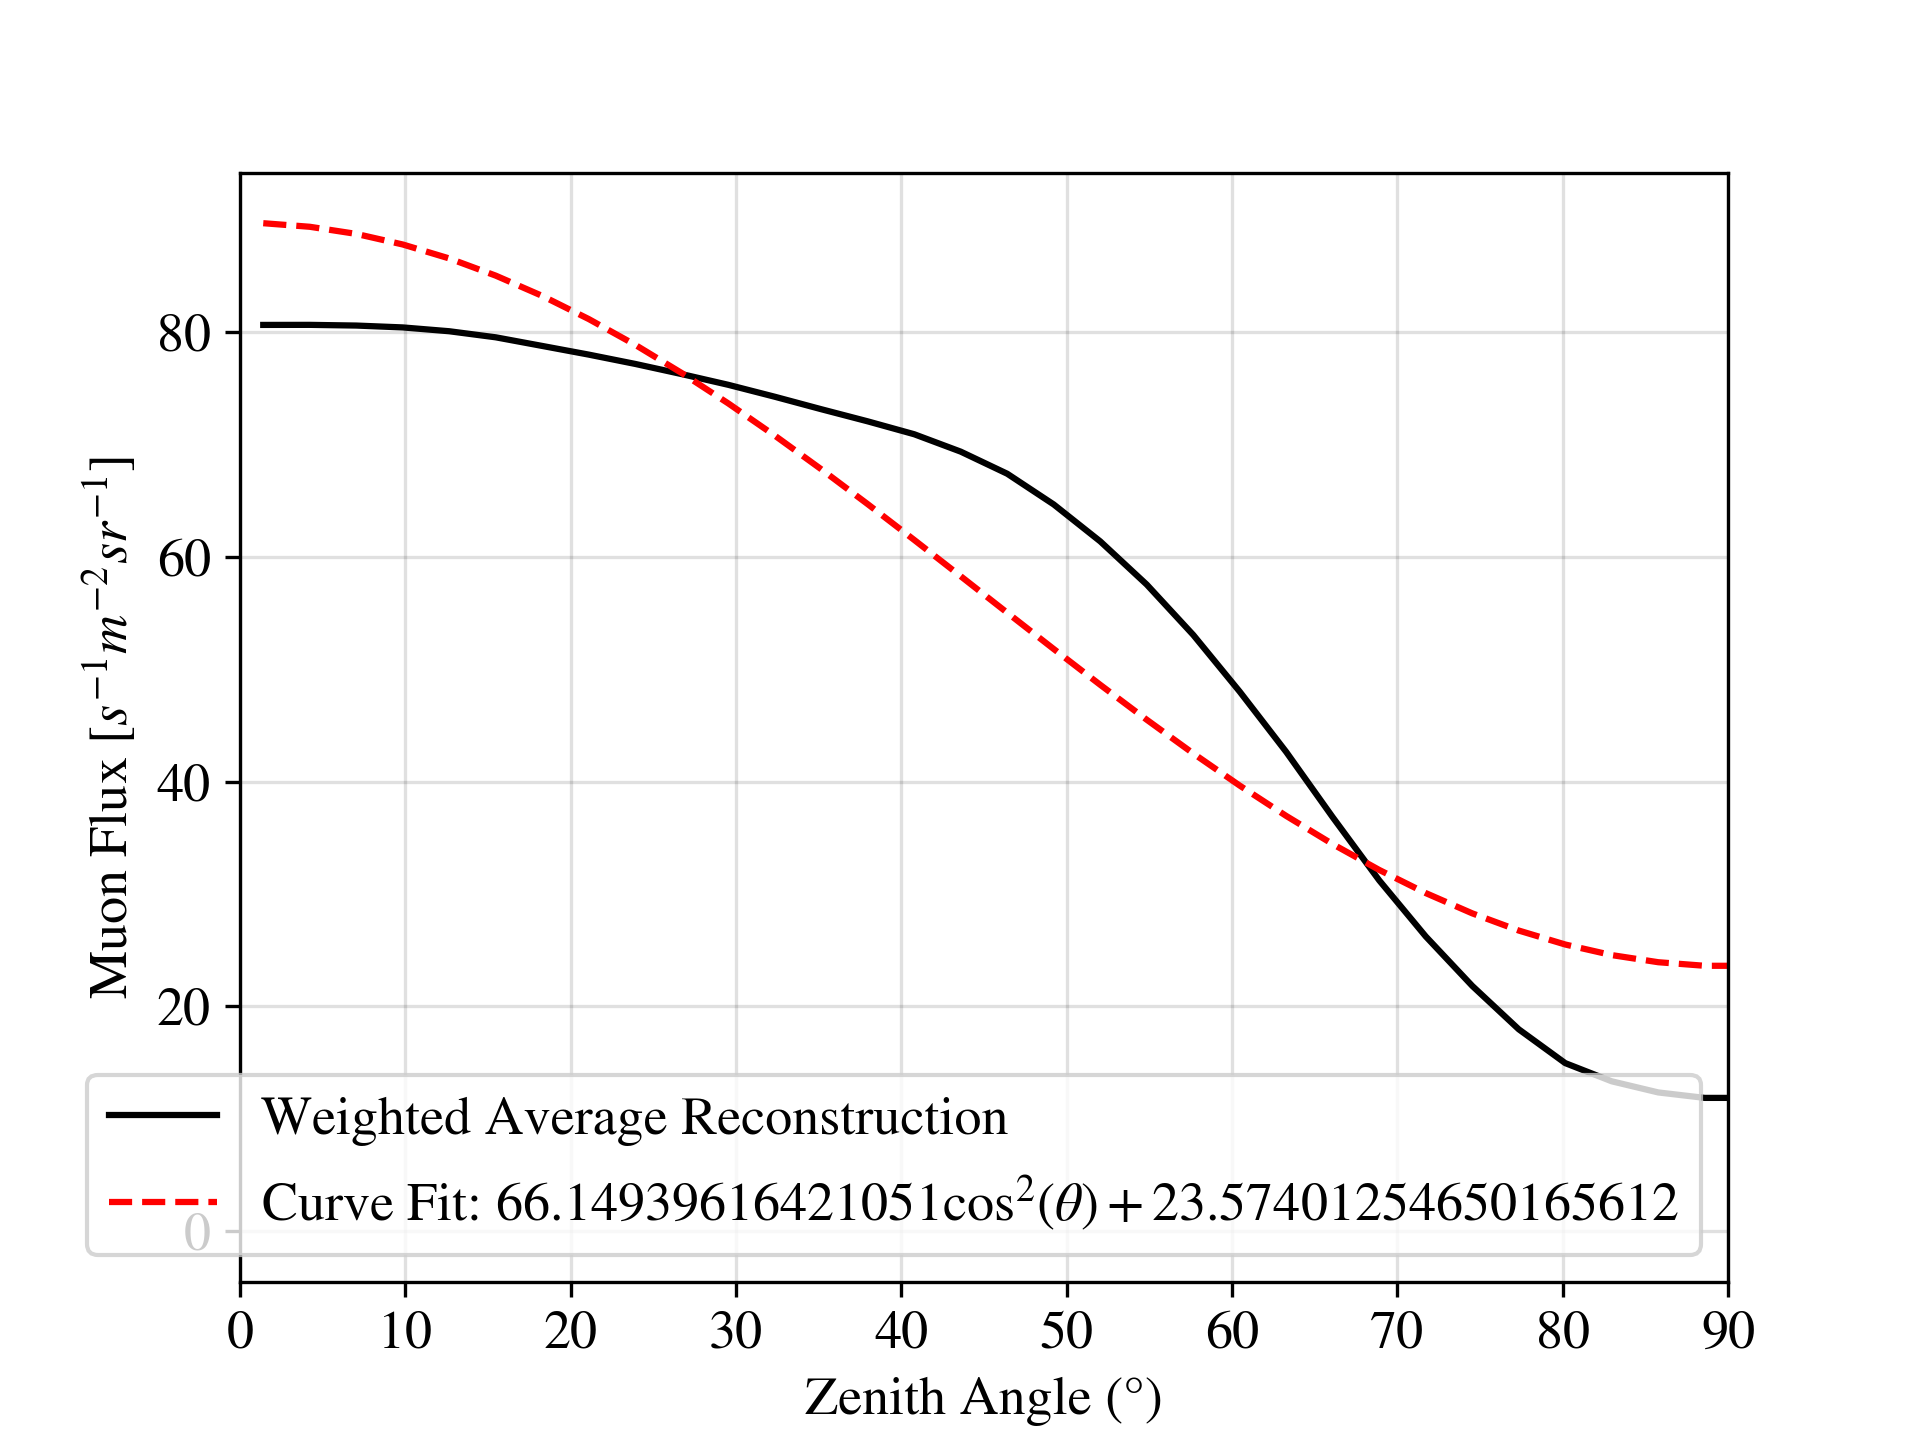
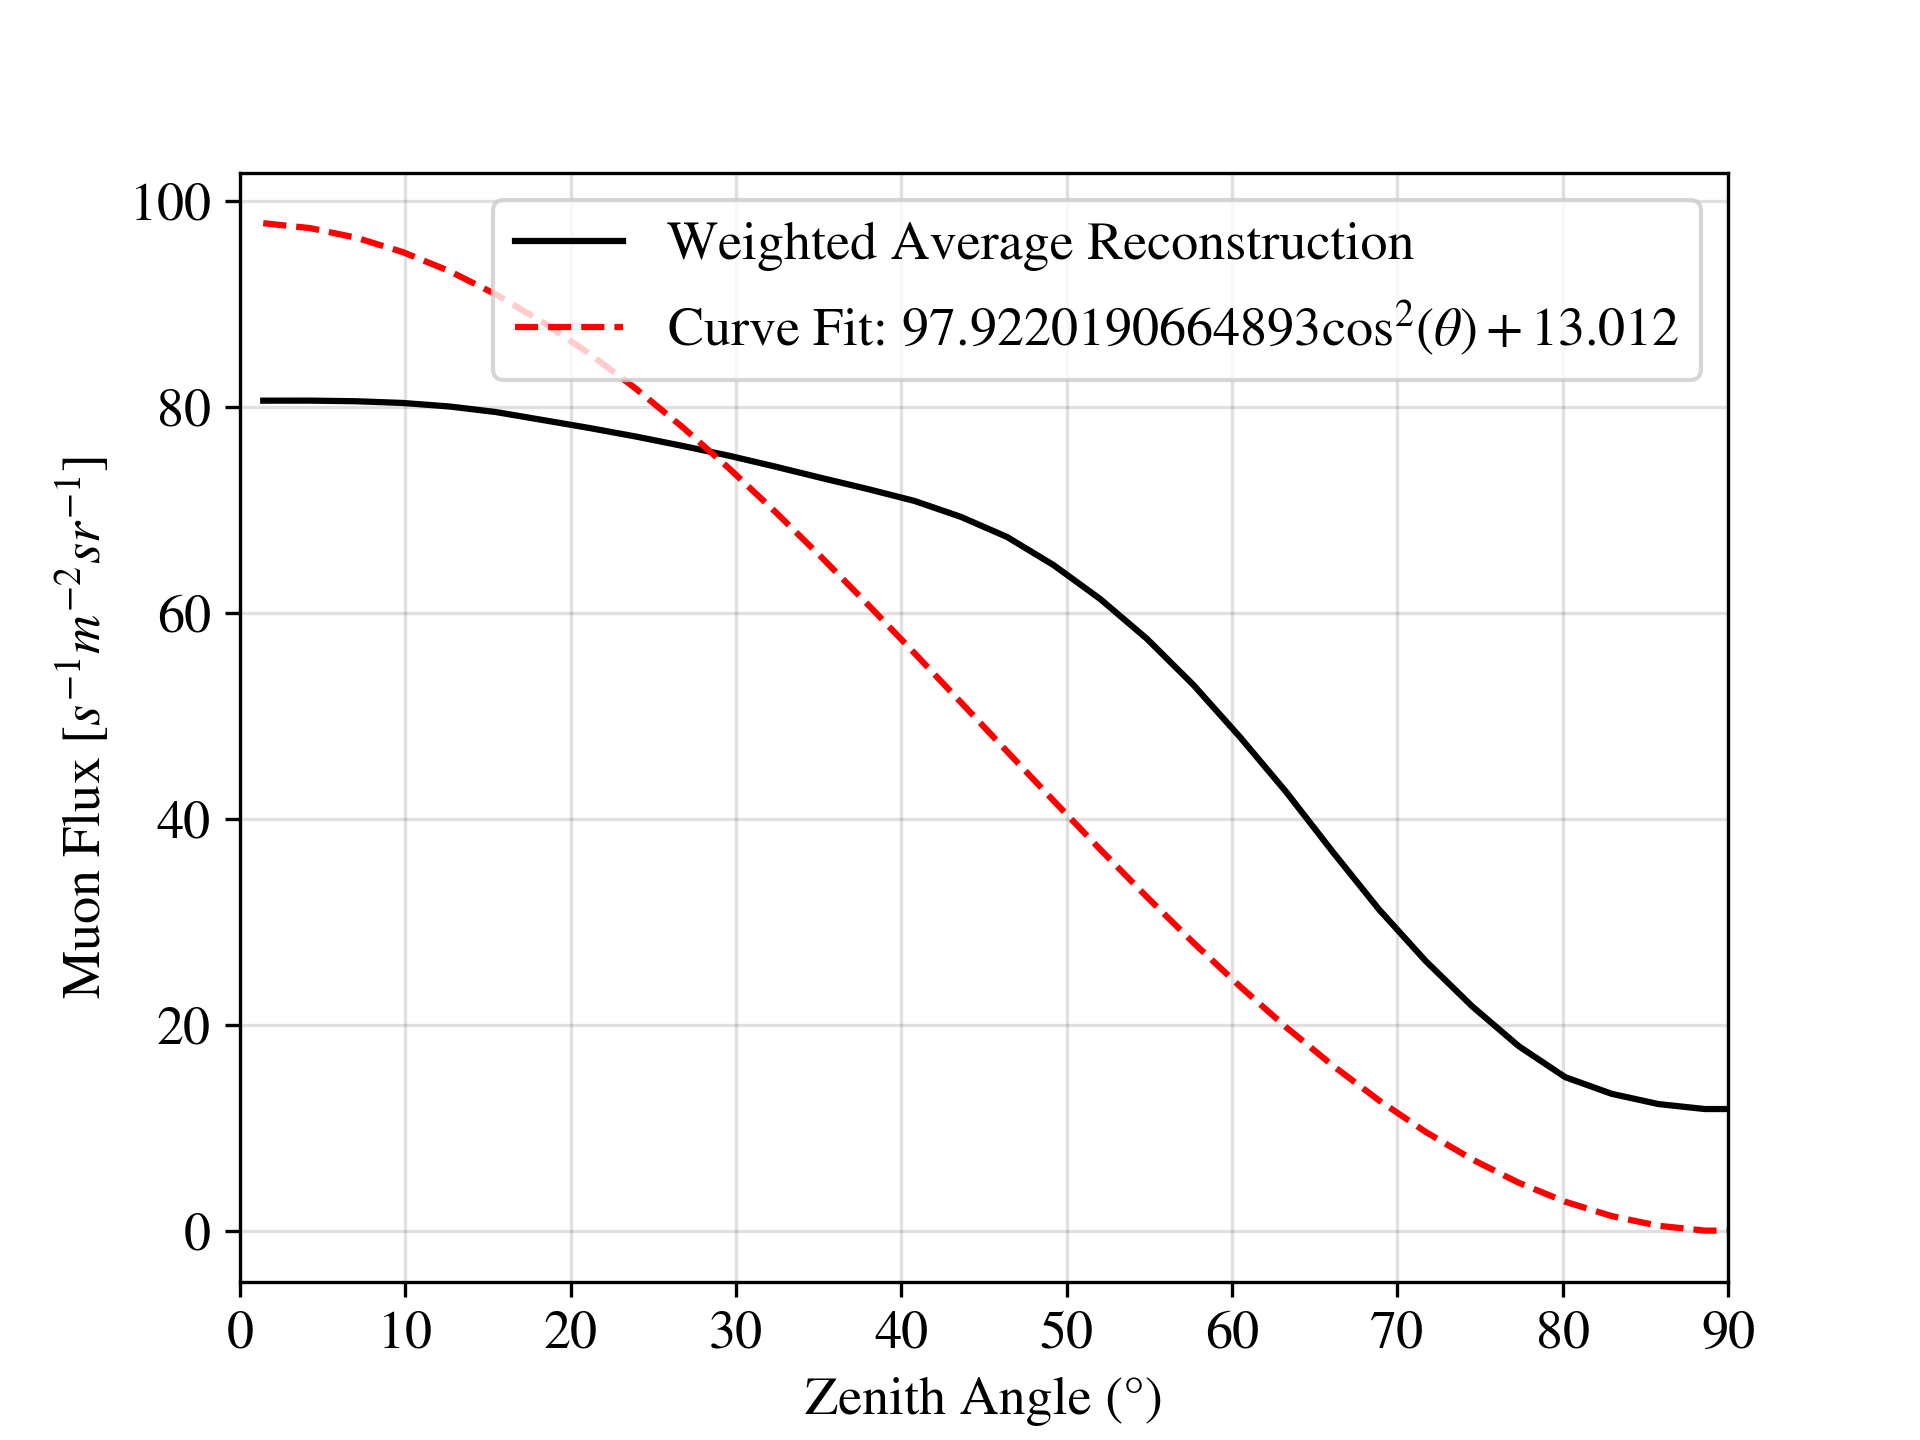
citation for myself

diff --git a/MCAnalyzer.py b/MCAnalyzer.py
@@ -131,7 +131,7 @@ for i in range(0, len(bin_centers)):
 
 from scipy.optimize import curve_fit
 def func(x, A, B):
-    return A*np.cos(x)**2 + B
+    return A*np.cos(x)**2 + B*0.0
 popt, pcov = curve_fit(func, bin_centers, all_yvals, p0=[84, 13])
 print(popt)
 print(pcov[0][0]**0.5)
@@ -199,9 +199,13 @@ plt.plot(bin_centers*180.0/np.pi, combine_with_weights(consts.x), label="Deconvo
 plt.plot(bin_centers*180.0/np.pi, func(bin_centers, *popt), label=r"Fit: $(95\pm 10) \cos^2(\theta) + (5\pm 6)$", linestyle="dashed", color="red")
 
 print("AAAAAAAAAA")
-print(combine_with_weights(consts.x))
-print(func(bin_centers, *popt))
-print()
+for zab in combine_with_weights(consts.x):
+    print(zab)
+
+print("BBBBBBBB")
+for zab in func(bin_centers, *popt):
+    print(zab)
+print("AAAAAAAAA")
 
 iii = 0
 for (a, ww) in zip(ai, consts.x):
